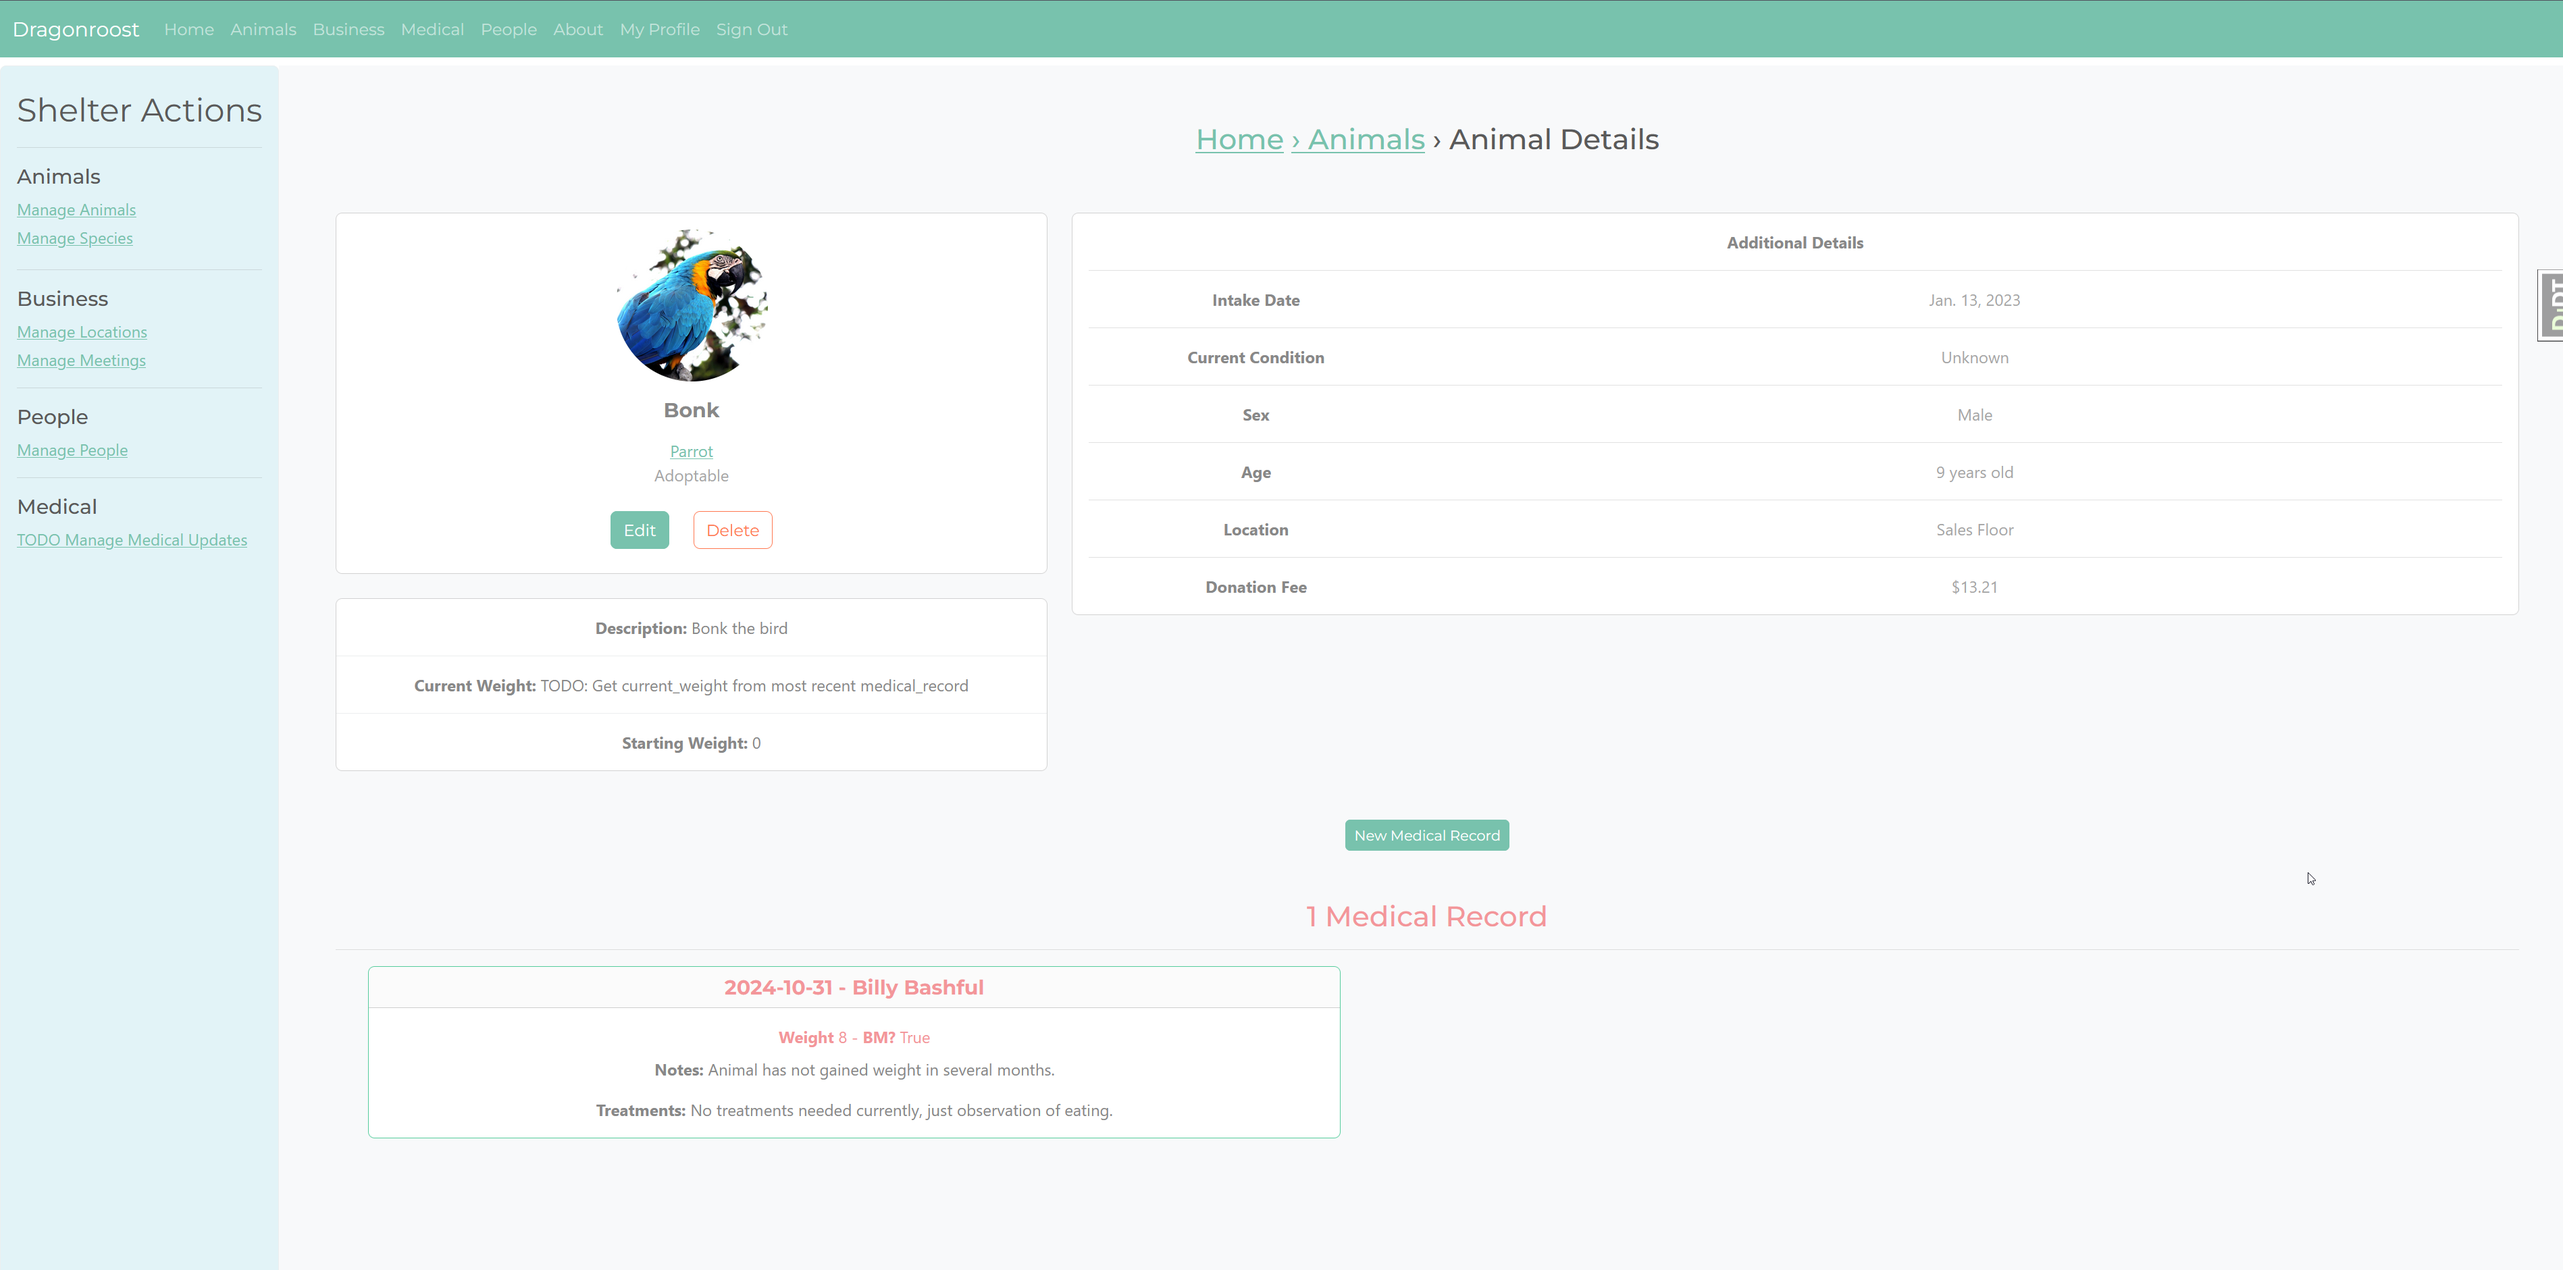
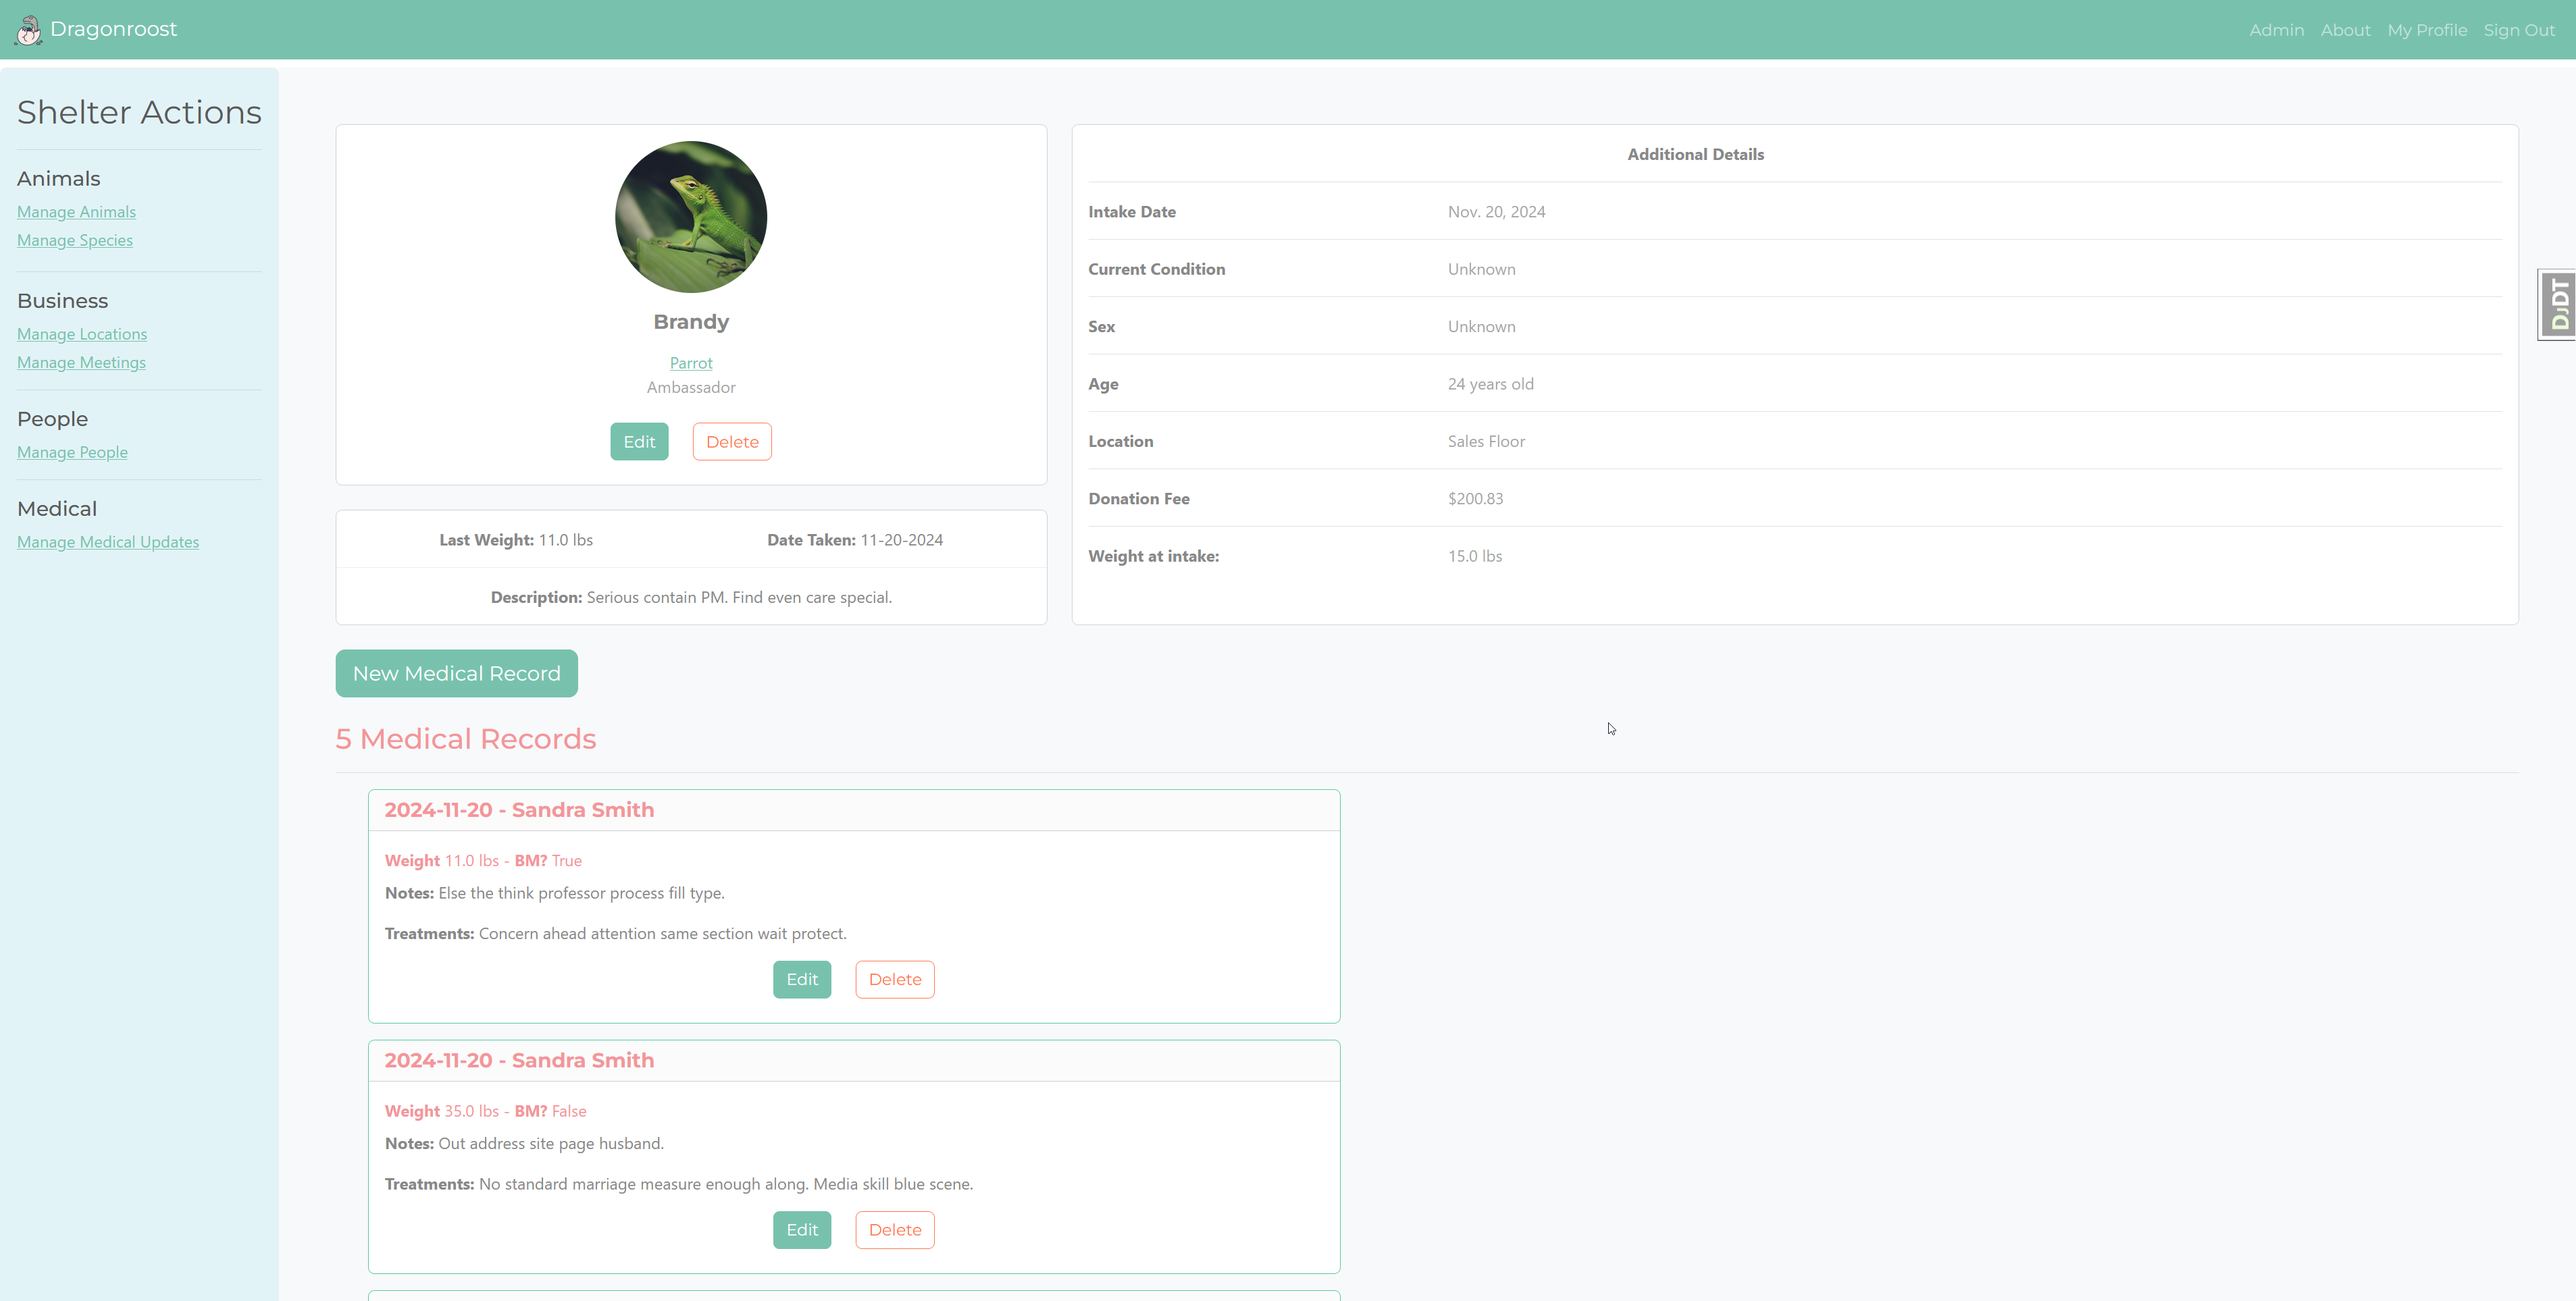
Update screenshots, admin for People module, and more

diff --git a/dragonroost/templates/animals/animal_table_htmx.html b/dragonroost/templates/animals/animal_table_htmx.html
@@ -2,6 +2,7 @@
 {% load crispy_forms_tags %}
 {% load widget_tweaks %}
 {% load render_table from django_tables2 %}
+{% load django_bootstrap5 %}
 
 {% block content %}
   <div class="container-fluid">
@@ -24,7 +25,7 @@
       </div>
     </div>
     <div class="row flex-fill">
-      <div class="col-9">
+      <div class="col-10">
         {# The actual table #}
         <div class="text-center"
              hx-trigger="animal_table_update from:body, animal_detail_update from:body"
@@ -32,7 +33,9 @@
              hx-target="this">{% render_table table %}</div>
       </div>
       {# Search form #}
-      <div class="col-3">
+      <div class="col-2">
+        <span class="fs-2 text-bold">Search Filters</span>
+        <hr />
         <form hx-get="{% url 'animals:get-animal-list' %}"
               hx-target="div.table-container"
               hx-swap="outerHTML"
@@ -40,11 +43,12 @@
               hx-trigger="input delay:500ms, search"
               class="form-inline">
           {% render_field filter.form.query|as_crispy_field %}
-          {% render_field filter.form.start_intake_date|as_crispy_field %}
-          {% render_field filter.form.end_intake_date|as_crispy_field %}
           {% render_field filter.form.status|as_crispy_field %}
           {% render_field filter.form.location|as_crispy_field %}
-          <button class="btn btn-primary" type="submit">Submit</button>
+          {% render_field filter.form.start_intake_date|as_crispy_field %}
+          {% render_field filter.form.end_intake_date|as_crispy_field %}
+          {% bootstrap_button button_type="submit" content="Submit" %}
+          {% bootstrap_button button_type="reset" button_class="btn-danger" content="Clear" %}
         </form>
       </div>
     </div>

diff --git a/dragonroost/templates/animals/partials/animal_detail.html b/dragonroost/templates/animals/partials/animal_detail.html
@@ -49,10 +49,10 @@
           <ul class="list-group list-group-flush rounded-3">
             <li class="list-group-item d-flex justify-content-around p-3">
               <p class="mb-0">
-                <b>Last Weight:</b> {{ animal.latest_medical_record.current_weight }}
+                <b>Last Weight:</b> {{ animal.latest_medical_record.current_weight.lb }} lbs
               </p>
               <p class="mb-0">
-                <b>Date Taken:</b> {{ animal.latest_medical_record.created|date:'Y-m-d' }}
+                <b>Date Taken:</b> {{ animal.latest_medical_record.created|date:'m-d-Y' }}
               </p>
             </li>
             <li class="list-group-item d-flex justify-content-center p-3">
@@ -148,7 +148,7 @@
               </p>
             </div>
             <div class="col-sm-9">
-              <p class="text-muted mb-0">{{ animal.starting_weight }}</p>
+              <p class="text-muted mb-0">{{ animal.starting_weight.lb }} lbs</p>
             </div>
           </div>
         </div>
@@ -178,7 +178,7 @@
           </h5>
           <div class="card-body">
             <p class="card-title text-secondary">
-              <b>Weight</b> {{ record.current_weight }} - <b>BM?</b> {{ record.bowel_movement }}
+              <b>Weight</b> {{ record.current_weight.lb }} lbs - <b>BM?</b> {{ record.bowel_movement }}
             </p>
             <p class="card-text">
               <b>Notes:</b> {{ record.notes }}

diff --git a/dragonroost/templates/animals/animal_detail_full.html b/dragonroost/templates/animals/animal_detail_full.html
@@ -51,7 +51,7 @@
           <ul class="list-group list-group-flush rounded-3">
             <li class="list-group-item d-flex justify-content-around p-3">
               <p class="mb-0">
-                <b>Last Weight:</b> {{ animal.latest_medical_record.current_weight }}
+                <b>Last Weight:</b> {{ animal.latest_medical_record.current_weight.lb }} lbs
               </p>
               <p class="mb-0">
                 <b>Date Taken:</b> {{ animal.latest_medical_record.created|date:'m-d-Y' }}
@@ -150,7 +150,7 @@
               </p>
             </div>
             <div class="col-sm-9">
-              <p class="text-muted mb-0">{{ animal.starting_weight }}</p>
+              <p class="text-muted mb-0">{{ animal.starting_weight.lb }} lbs</p>
             </div>
           </div>
         </div>
@@ -180,7 +180,7 @@
           </h5>
           <div class="card-body">
             <p class="card-title text-secondary">
-              <b>Weight</b> {{ record.current_weight }} - <b>BM?</b> {{ record.bowel_movement }}
+              <b>Weight</b> {{ record.current_weight.lb }} lbs - <b>BM?</b> {{ record.bowel_movement }}
             </p>
             <p class="card-text">
               <b>Notes:</b> {{ record.notes }}

diff --git a/dragonroost/animals/migrations/0004_alter_animal_animal_photo_and_more.py b/dragonroost/animals/migrations/0004_alter_animal_animal_photo_and_more.py
@@ -1,0 +1,36 @@
+# Generated by Django 5.0.9 on 2024-11-20 15:21
+
+import django_measurement.models
+import dragonroost.animals.models
+import measurement.measures.mass
+from django.db import migrations, models
+
+
+class Migration(migrations.Migration):
+
+    dependencies = [
+        ('animals', '0003_alter_medicalrecord_options_alter_animal_status'),
+    ]
+
+    operations = [
+        migrations.AlterField(
+            model_name='animal',
+            name='animal_photo',
+            field=models.ImageField(blank=True, default=dragonroost.animals.models.random_image, null=True, upload_to='images/'),
+        ),
+        migrations.AlterField(
+            model_name='animal',
+            name='starting_weight',
+            field=django_measurement.models.MeasurementField(measurement=measurement.measures.mass.Mass),
+        ),
+        migrations.AlterField(
+            model_name='animal',
+            name='status',
+            field=models.CharField(choices=[('ADOPTED', 'Adopted'), ('AMBASSADOR', 'Ambassador'), ('AVAILABLE', 'Available'), ('DECEASED', 'Deceased'), ('FOSTERED', 'Fostered'), ('MEDICAL_HOLD', 'Medical Hold'), ('ON_HOLD', 'On Hold'), ('QUARANTINE', 'Quarantine')], default='AVAILABLE', max_length=80),
+        ),
+        migrations.AlterField(
+            model_name='medicalrecord',
+            name='current_weight',
+            field=django_measurement.models.MeasurementField(measurement=measurement.measures.mass.Mass),
+        ),
+    ]

diff --git a/dragonroost/animals/models.py b/dragonroost/animals/models.py
@@ -7,6 +7,8 @@ from pathlib import Path
 from django.conf import settings
 from django.db import models
 from django.urls import reverse
+from django_measurement.models import MeasurementField
+from measurement.measures import Weight
 
 from dragonroost.business.models import Location
 from dragonroost.people.models import Person
@@ -127,7 +129,7 @@ class Animal(models.Model):
     color = models.CharField(max_length=80, null=False, default="None")
     sex = models.CharField(max_length=20, choices=SEX_CHOICES, default="UNKNOWN")
     age = models.IntegerField(default=0)
-    starting_weight = models.IntegerField(default=0)
+    starting_weight = MeasurementField(measurement=Weight)
     species = models.ForeignKey(
         Species,
         on_delete=models.SET_NULL,
@@ -196,7 +198,7 @@ class MedicalRecord(models.Model):
 
     created = models.DateTimeField(auto_now_add=True)
     notes = models.TextField(max_length=500, blank=True, null=False, default="")
-    current_weight = models.IntegerField(default=0)
+    current_weight = MeasurementField(measurement=Weight)
     bowel_movement = models.BooleanField(default=True)
     problem_list = models.TextField(max_length=500, blank=True, null=False, default="")
     findings = models.TextField(max_length=500, blank=True, null=False, default="")

diff --git a/dragonroost/animals/management/commands/add_initial_data.py b/dragonroost/animals/management/commands/add_initial_data.py
@@ -3,6 +3,7 @@ import secrets
 
 from django.core.management.base import BaseCommand
 from faker import Faker
+from measurement.measures import Weight
 
 from dragonroost.animals.models import Animal
 from dragonroost.animals.models import MedicalRecord
@@ -84,7 +85,7 @@ class Command(BaseCommand):
                 color=fake.color(),
                 donation_fee=random.uniform(5.00, 350.00),  # noqa: S311
                 age=random.uniform(1, 50),  # noqa: S311
-                starting_weight=random.uniform(1, 200),  # noqa: S311
+                starting_weight=Weight(lb=random.randint(5, 35)),  # noqa: S311
                 status=secrets.choice(statuses),
             )
             animal.save()
@@ -94,7 +95,7 @@ class Command(BaseCommand):
                     animal=animal,
                     notes=fake.text(max_nb_chars=50),
                     treatments=fake.text(max_nb_chars=75),
-                    current_weight=random.uniform(1, 200),  # noqa: S311
+                    current_weight=Weight(lb=random.randint(7, 40)),  # noqa: S311
                     bowel_movement=fake.boolean(chance_of_getting_true=50),
                     q_volunteer=secrets.choice(people),
                 )

diff --git a/dragonroost/animals/forms.py b/dragonroost/animals/forms.py
@@ -3,6 +3,8 @@ from crispy_forms.helper import FormHelper
 from crispy_forms.layout import Layout
 from crispy_forms.layout import Row
 from django import forms
+from django_measurement.forms import MeasurementField
+from measurement.measures import Weight
 
 from dragonroost.animals.models import Animal
 from dragonroost.animals.models import MedicalRecord
@@ -10,6 +12,11 @@ from dragonroost.animals.models import Species
 
 
 class AnimalCreateForm(forms.ModelForm):
+    starting_weight = MeasurementField(
+        measurement=Weight,
+        unit_choices=(("lb", "lb"), ("kg", "kg"), ("g", "g")),
+    )
+
     def __init__(self, *args, **kwargs):
         super().__init__(*args, **kwargs)
         self.helper = FormHelper(self)

diff --git a/dragonroost/people/admin.py b/dragonroost/people/admin.py
@@ -1,1 +1,15 @@
+from django.contrib import admin
+
+from .models import Person
+from .models import Role
+
+
 # Register your models here.
+@admin.register(Role)
+class RoleAdmin(admin.ModelAdmin):
+    list_display = ["name", "description"]
+
+
+@admin.register(Person)
+class PersonAdmin(admin.ModelAdmin):
+    list_display = ["first_name", "last_name", "roles", "notes"]

diff --git a/dragonroost/animals/tables.py b/dragonroost/animals/tables.py
@@ -76,6 +76,10 @@ class AnimalTable(tables.Table):
         verbose_name="Status",
     )
 
+    donation_fee = tables.TemplateColumn(
+        """${{ record.donation_fee }}""",
+    )
+
     intake_date = tables.TemplateColumn(
         """
         {{ record.intake_date|date:'m-d-Y' }}

diff --git a/dragonroost/animals/admin.py b/dragonroost/animals/admin.py
@@ -11,4 +11,4 @@ admin.site.register(MedicalRecord)
 
 @admin.register(Animal)
 class AnimalAdmin(admin.ModelAdmin):
-    list_display = ["name", "species", "location"]
+    list_display = ["name", "starting_weight", "species", "location"]

diff --git a/README.md b/README.md
@@ -17,10 +17,9 @@ License: MIT
 
 ## Screenshots (current as of October 30 2024)
 
-![Dragonroost Homepage](example/screenshots/dragonroost-dashboard.png)
+![Dragonroost Homepage](example/screenshots/dragonroost-dash-v3.png)
 ![Dragonroost Animal Detail Page](example/screenshots/dragonroost-animal-detail.png)
 ![Dragonroost Species List Page](example/screenshots/dragonroost-species-list.png)
-![Dragonroost People List Page](example/screenshots/dragonroost-people-list.png)
 
 ## Roadmap
 
